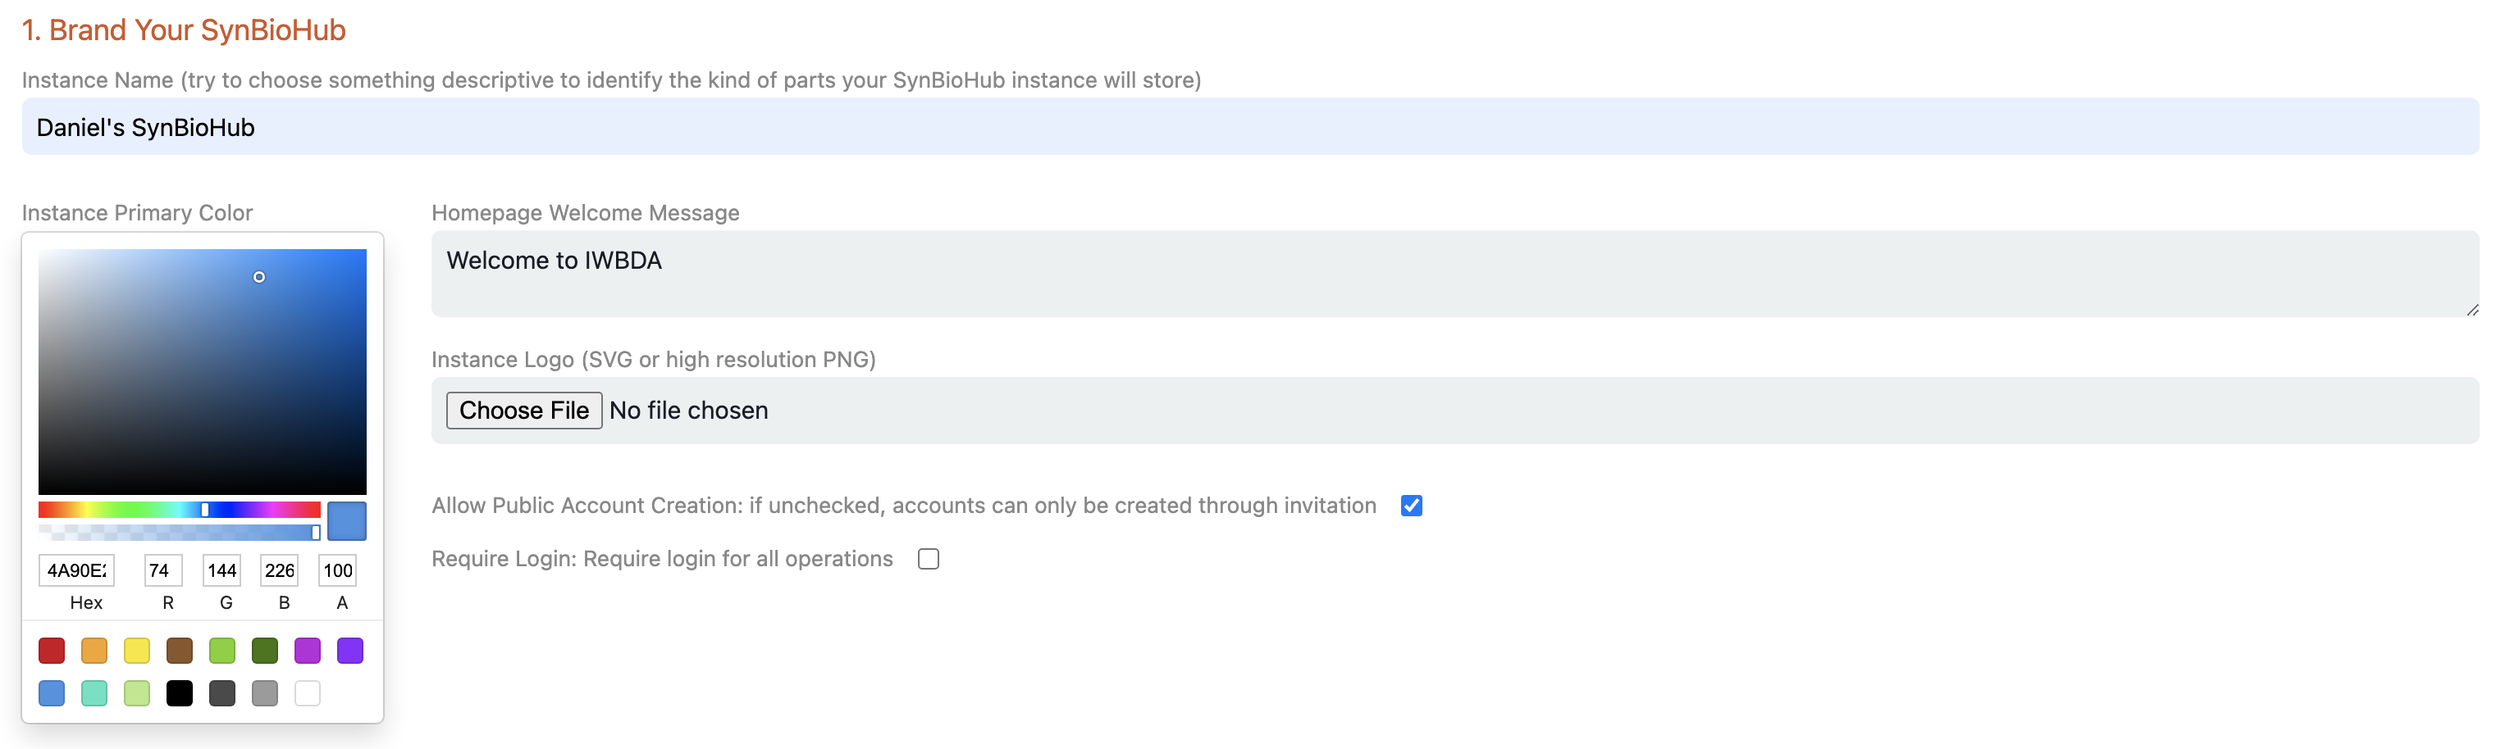
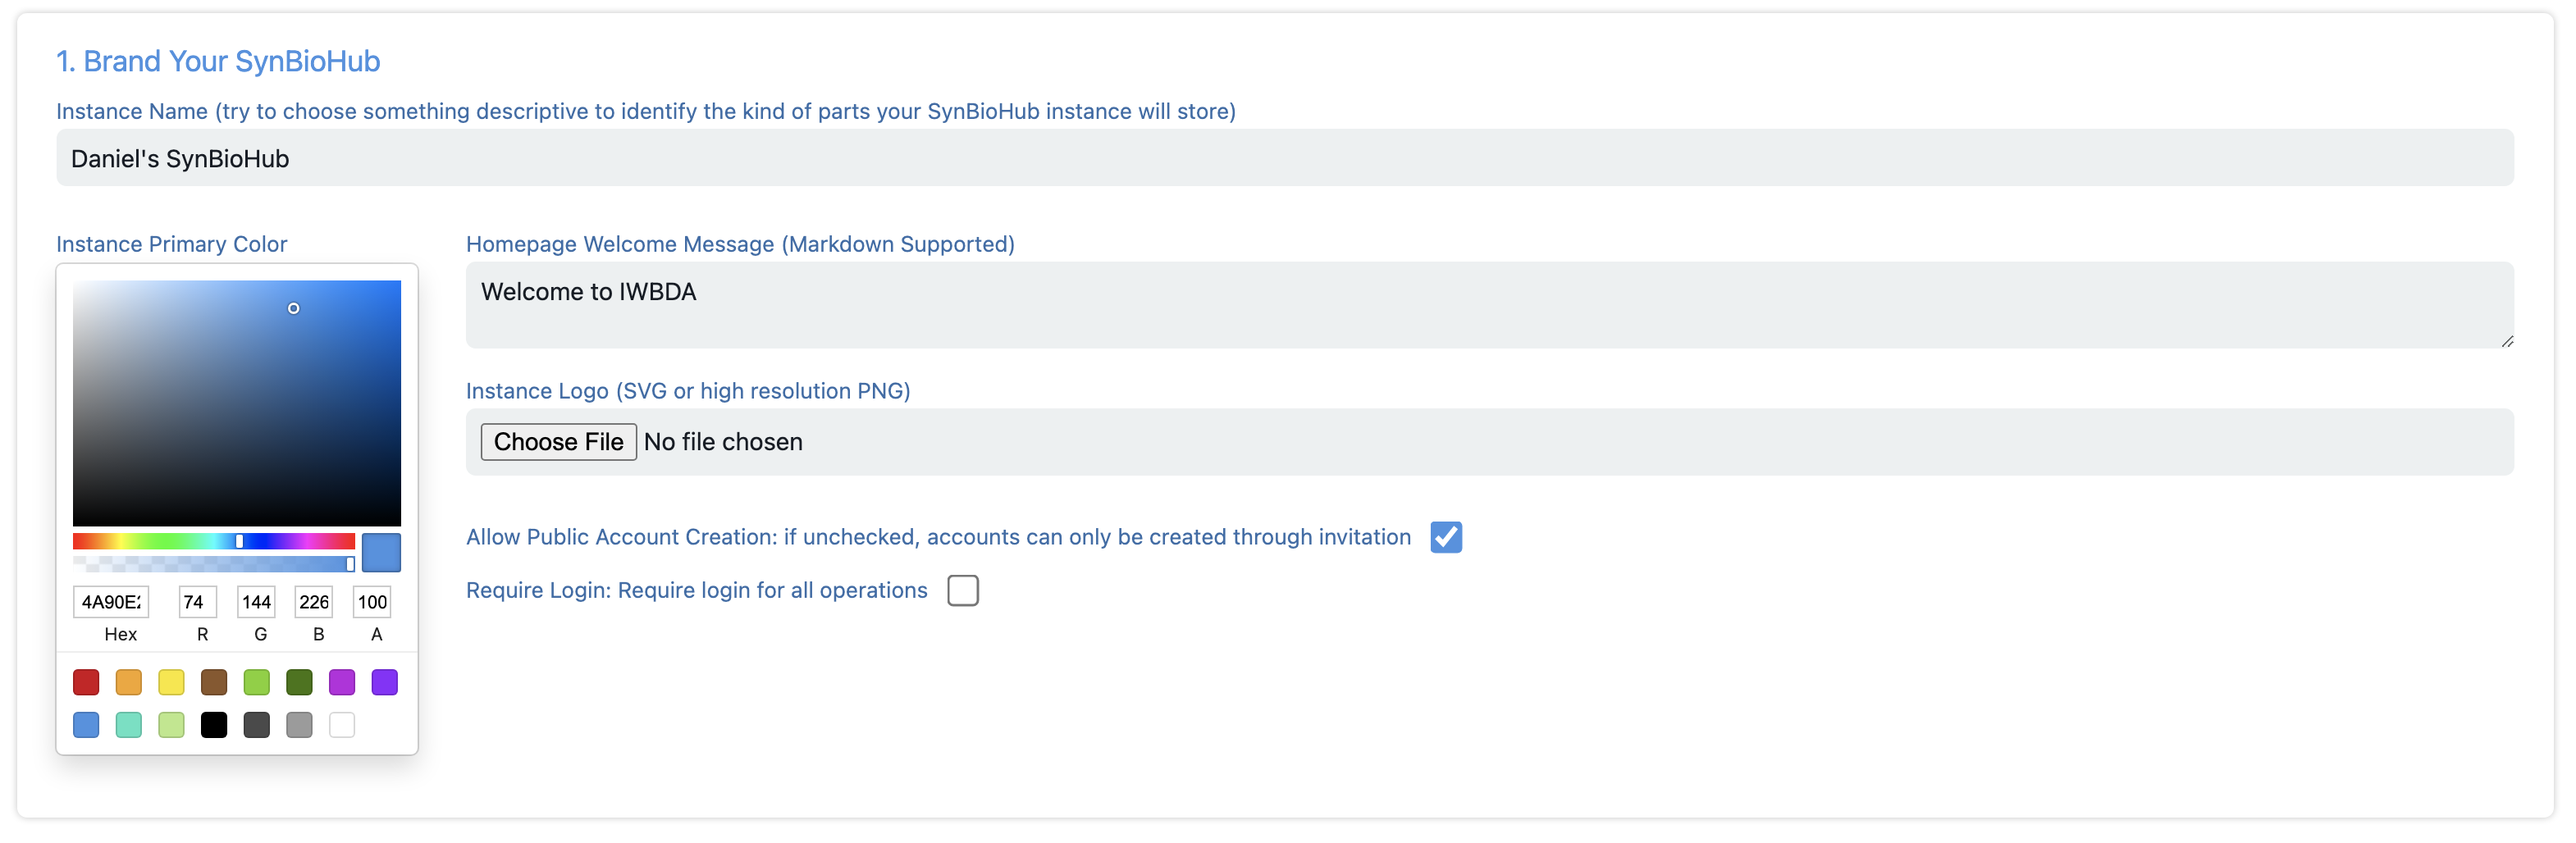
modified setup to have correct alt home page. changed workshop setup pictures to match

Changed region(s): [[0.0, 0.2757, 0.593, 0.9803], [0.0, 0.0306, 0.4993, 0.2144], [0.156, 0.2757, 0.4057, 0.3063]]

diff --git a/frontend/specialAccess/setup.js b/frontend/specialAccess/setup.js
@@ -7,7 +7,6 @@ import { useState, useEffect } from 'react';
 import SubmitLabel from '../components/Submit/ReusableComponents/SubmitLabel';
 import { logoutUser } from '../redux/actions';
 import { useRouter } from 'next/router';
-
 import { useDispatch } from 'react-redux';
 import { addError } from '../redux/actions';
 import { isValidURI } from '../components/Viewing/Shell';
@@ -29,9 +28,9 @@ export default function Setup({ setInSetupMode }) {
 
   const [advancedMode, setAdvancedMode] = useState(false);
   const [advancedWrap, setAdvancedWrap] = useState(false);
-  const [frontendURL, setFrontendURL] = useState(window.location.origin+'/');
-  const [instanceUrl, setInstanceUrl] = useState(window.location.origin+'/');
-  const [uriPrefix, setUriPrefix] = useState(window.location.origin+'/');
+  const [frontendURL, setFrontendURL] = useState(window.location.origin + '/');
+  const [instanceUrl, setInstanceUrl] = useState('http://localhost:7777/');
+  const [uriPrefix, setUriPrefix] = useState(window.location.origin + '/');
   const [altHome, setAltHome] = useState('');
 
   const [userName, setUserName] = useState('');
@@ -46,23 +45,11 @@ export default function Setup({ setInSetupMode }) {
   const [primaryTitleStyle, setPrimaryTitleStyle] = useState({ color: color });
   const [secondaryTitleStyle, setSecondaryTitleStyle] = useState({ color: color });
 
-  const altHomePaths = [
-    '',
-    '/submit',
-    '/submissions',
-    '/search',
-    '/profile',
-    '/register',
-    '/admin',
-    '/login',
-  ]
-
   useEffect(() => {
     setPrimaryTitleStyle({ color: color });
     setSecondaryTitleStyle({ color: reduceBrightness(color, 0.25) });
   }, [color]);
 
-  // change the url to the base url
   useEffect(() => {
     router.push('/setup');
   }, [router]);
@@ -98,9 +85,9 @@ export default function Setup({ setInSetupMode }) {
               />
               <div className={styles.compressor}>
                 <div>
-                  <SubmitLabel text="Instance Primary Color" 
+                  <SubmitLabel text="Instance Primary Color"
                     style={secondaryTitleStyle}
-                    />
+                  />
                   <SketchPicker
                     color={color}
                     onChange={color => setColor(color.hex)}
@@ -166,12 +153,9 @@ export default function Setup({ setInSetupMode }) {
           style={primaryTitleStyle}
           content={
             <div>
-
               <InputField
-                labelText="Alternate Home Page: If you would like to set your own version of the home page, set the uri here. For example, typing https://mysynbiohub.org would make this the default page, while mysynbiohub would make https://synbiohub.org/mysynbiohub the default page."
+                labelText="Alternate Home Page: If you would like to set your own version of the home page, set the url here. For example, typing https://mysynbiohub.org would make this the default page, while mysynbiohub would make https://synbiohub.org/mysynbiohub the default page."
                 placeholder="Alternate Home Page"
-                customInput="select"
-                options={altHomePaths}
                 value={altHome}
                 onChange={event => {
                   setAltHome(event.target.value);
@@ -181,7 +165,6 @@ export default function Setup({ setInSetupMode }) {
                 containerStyling={styles.inputcontainer}
                 style={secondaryTitleStyle}
               />
-
 
               <button
                 className={styles.growWrapDropdown}
@@ -197,10 +180,10 @@ export default function Setup({ setInSetupMode }) {
               >
                 {advancedWrap ? "Hide" : "Show"} Advanced Options
               </button>
-              <div 
+              <div
                 className={styles.wrapAdvanced}
                 style={{ maxHeight: advancedWrap ? '400px' : '0px' }}
-                >
+              >
                 <button
                   className={styles.advancedbutton}
                   onClick={
@@ -391,7 +374,6 @@ export default function Setup({ setInSetupMode }) {
               error.fullUrl = `${publicRuntimeConfig.backend}/setup`;
               dispatch(addError(error));
             }
-
             if (altHome) {
               router.push(altHome);
             } else {
